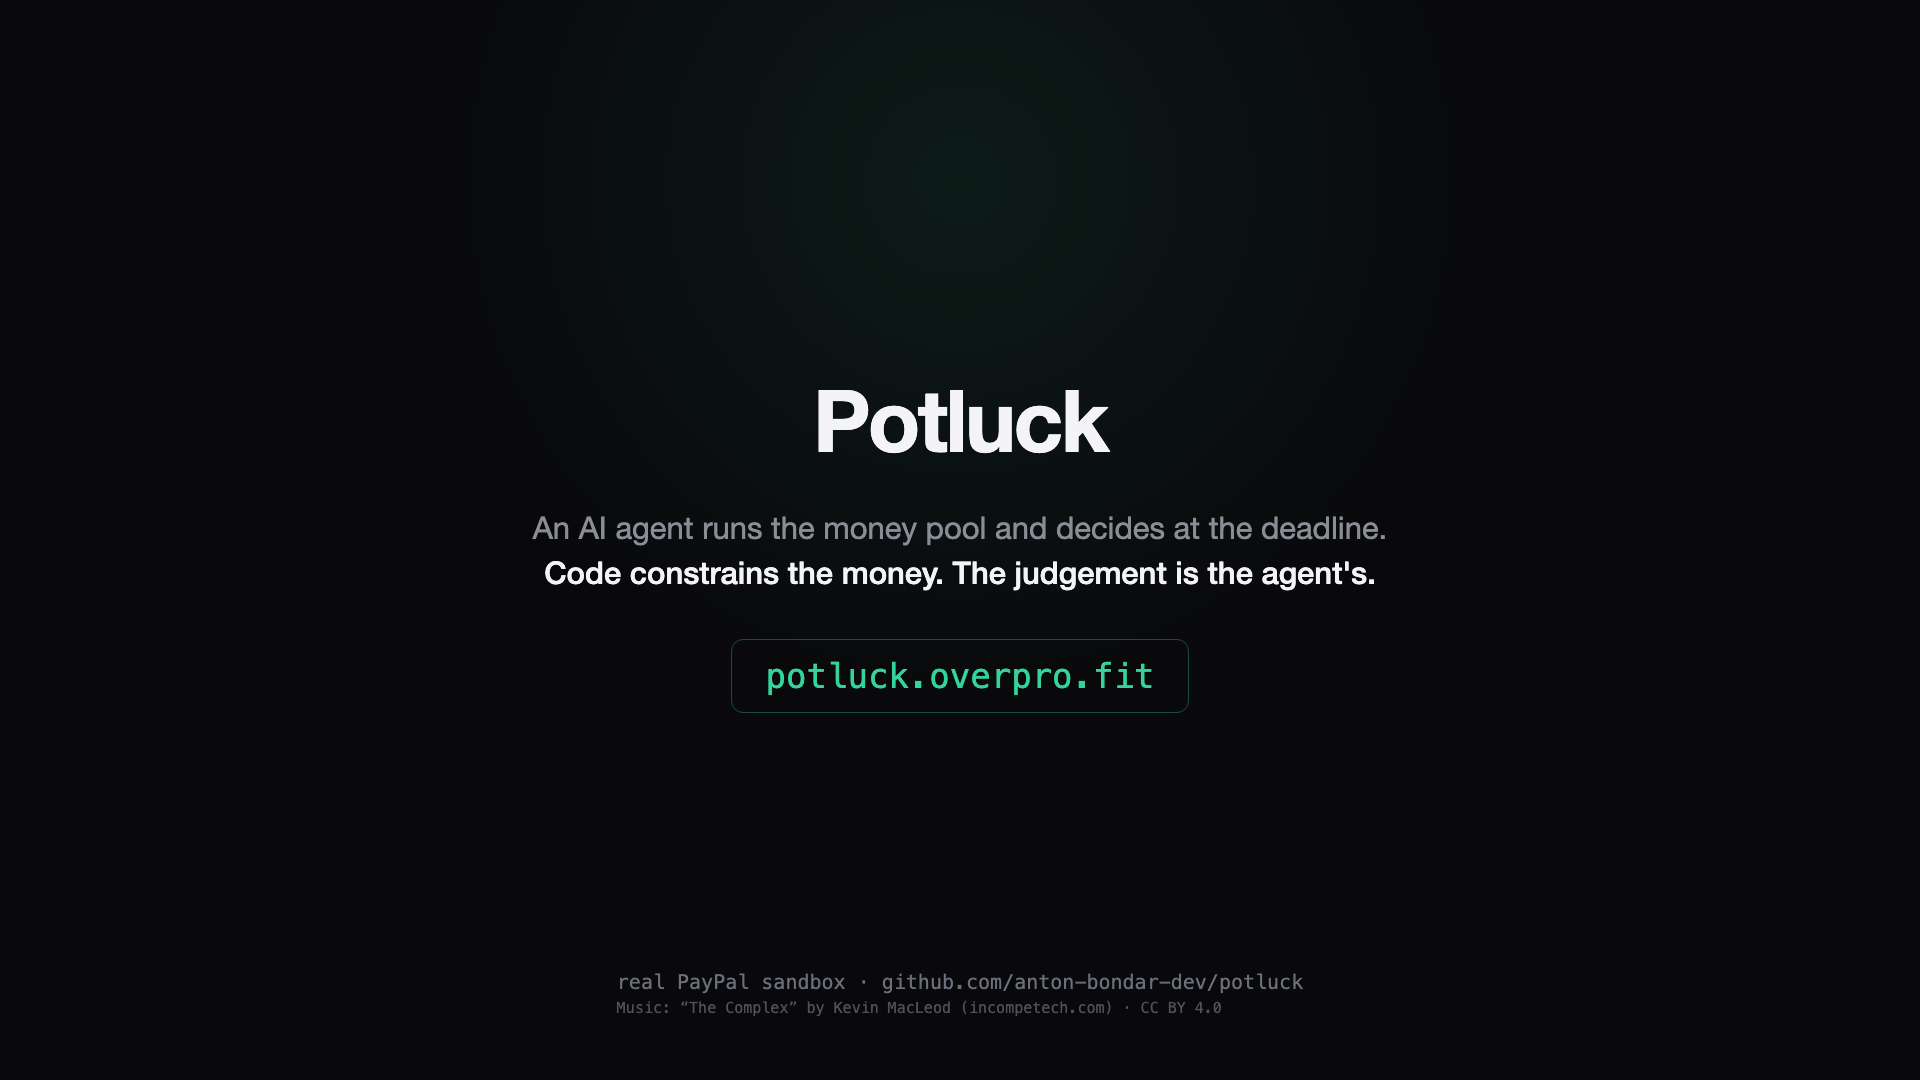
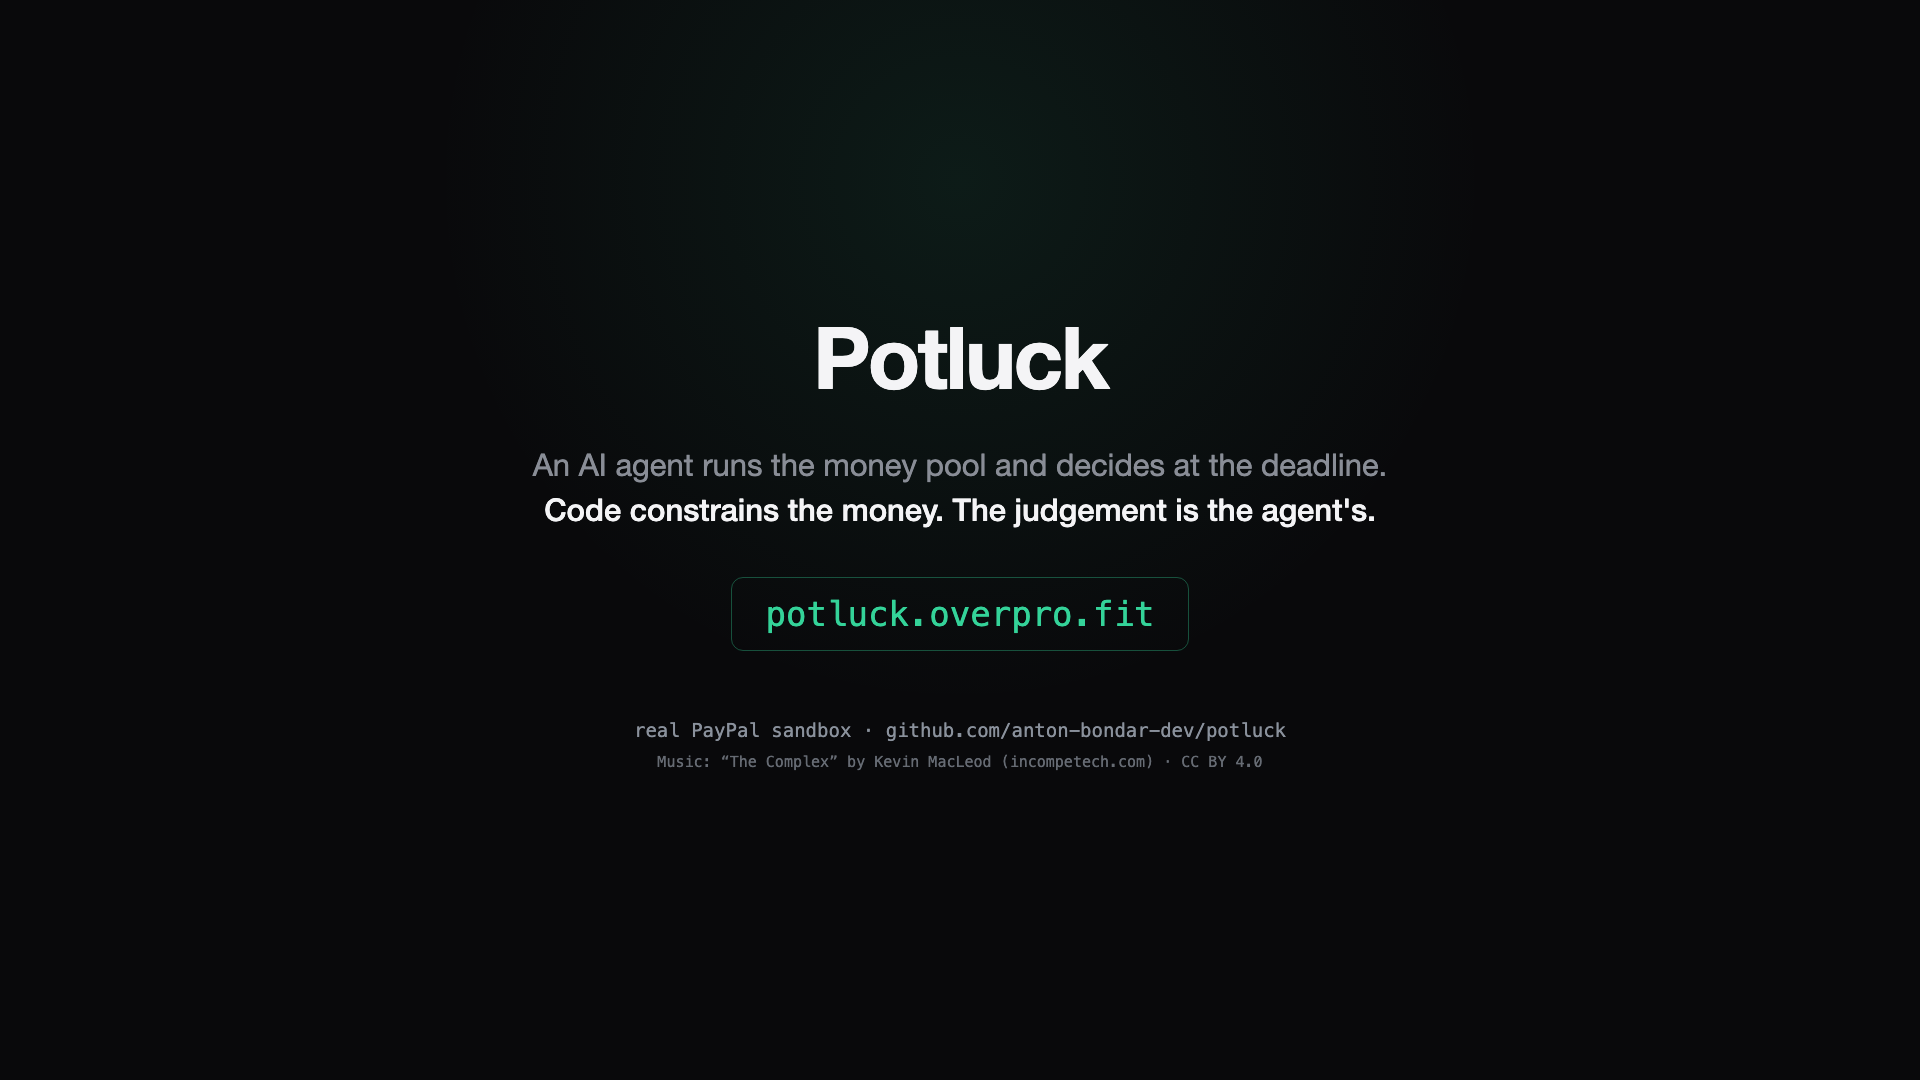
The film: a voice-over, a music bed, and four bugs in the pipeline
1:50, cut from a fresh take, uploaded to youtu.be/_sZ3V30QbaQ. Eric on
ElevenLabs reading the captions verbatim, so a judge watching muted and a
judge with sound on get the same film. Kevin MacLeod's 'The Complex' under
CC BY 4.0, credited on the end card and in the description because the licence
requires it, ducked under the voice by sidechain so it breathes in the gaps.

Four things the pipeline got wrong, each caught by looking at the output:
  - the caption overlap guard had been lost in an earlier edit, so three
    captions were briefly on screen at once; it is back, and now runs AFTER
    the voice step so it also catches a clip that overruns its slot
  - the audio filtergraph consumed the voice output twice, which ffmpeg
    refuses — asplit
  - -shortest let the AUDIO decide the length, silently cutting six seconds
    off the end and most of the end card with it; the video is the master now
  - the music credit sat under the caption scrim and was unreadable, which for
    a CC BY track is a licence problem, not a cosmetic one

Also: the thumbnails said 396 tests. They say 433.

diff --git a/frontend/src/PoolScreen.tsx b/frontend/src/PoolScreen.tsx
@@ -155,12 +155,17 @@ export default function PoolScreen({ poolId, onNew }: { poolId: string; onNew: (
         </div>
       )}
 
+      {/* Source order is the desktop reading order — trace, ledger, gauges. A phone
+          stacks it, which buried the hero number and the countdown below a trace log
+          taller than the screen. On narrow viewports the order is inverted to what
+          someone actually needs first: how much is in, how long is left, who has paid,
+          and only then the reasoning. */}
       <div className="mt-4 grid gap-4 lg:grid-cols-[360px_minmax(0,1fr)_300px]">
-        <div className="flex min-h-[520px] flex-col lg:h-[calc(100vh-230px)] lg:min-h-0">
+        <div className="order-3 flex max-h-[60vh] min-h-[340px] flex-col lg:order-1 lg:h-[calc(100vh-230px)] lg:max-h-none lg:min-h-0">
           <Trace items={st.trace} />
         </div>
 
-        <div className="space-y-4">
+        <div className="order-2 space-y-4 lg:order-2">
           <Ledger pool={pool} onPay={pay} busy={busy} />
           <Wire calls={st.wire} />
           <div className="rounded-card border border-border bg-surface-1 p-3">
@@ -215,7 +220,7 @@ export default function PoolScreen({ poolId, onNew }: { poolId: string; onNew: (
           </div>
         </div>
 
-        <div className="space-y-3">
+        <div className="order-1 space-y-3 lg:order-3">
           <Gauges pool={pool} />
           <Authority />
         </div>

diff --git a/frontend/src/components/Ledger.tsx b/frontend/src/components/Ledger.tsx
@@ -173,7 +173,11 @@ export default function Ledger({
           v{pool.ledger_version} · {pool.paid_count}/{pool.n} paid
         </span>
       </div>
-      <table className="w-full border-collapse text-left">
+      {/* The table has six columns and a floor of about 620px. On a 390px phone an
+          overflow-hidden wrapper simply cut it off; scrolling it sideways keeps every
+          column readable at full size instead of shrinking all of them past legibility. */}
+      <div className="overflow-x-auto">
+      <table className="w-full min-w-[620px] border-collapse text-left">
         <thead>
           <tr className="text-[10px] font-semibold tracking-[0.1em] text-text-faint uppercase">
             <th className="px-3 py-2 font-semibold">Who</th>
@@ -190,6 +194,7 @@ export default function Ledger({
           ))}
         </tbody>
       </table>
+      </div>
       <div className="border-t border-border px-3 py-2 text-[11px] text-text-faint">
         Amounts come from the roster the agent set at plan time. It cannot re-price an
         invoice, mark anyone as paid, or edit this table.

diff --git a/planning/video/endcard.html b/planning/video/endcard.html
@@ -10,7 +10,10 @@ body{width:1920px;height:1080px;background:#09090b;color:#f4f4f6;
 .s b{color:#f4f4f6;font-weight:500}
 .u{font-family:ui-monospace,'Geist Mono Variable',monospace;font-size:34px;color:#34d399;
   border:1px solid rgba(52,211,153,.35);border-radius:12px;padding:16px 34px;margin-top:10px;position:relative}
-.f{position:absolute;bottom:62px;font-family:ui-monospace,monospace;font-size:20px;color:#6b6f79}
+/* In the flow, not pinned to the bottom: the caption scrim darkens the lowest 230px of
+   every frame, and the music credit is a licence condition — it has to be readable. */
+.f{margin-top:30px;text-align:center;font-family:ui-monospace,monospace;font-size:19px;
+   line-height:1.6;color:#8a919c}
 </style></head><body>
 <div class="glow"></div>
 <div class="n">Potluck</div>

diff --git a/frontend/src/index.css b/frontend/src/index.css
@@ -34,8 +34,11 @@
 
   --color-text-hi: #f4f4f6;
   --color-text: #c6c8ce;
-  --color-text-dim: #898d96;
-  --color-text-faint: #6b6f79;
+  --color-text-dim: #9aa0aa;
+  /* Was #6b6f79, which fails WCAG AA on every surface here at 10-11px — and it is the
+     colour carrying the authority table and the "nothing parses your condition" line,
+     i.e. the project's central claim. 4.6:1 against the page background. */
+  --color-text-faint: #868d98;
 
   --color-accent: #7c6cf0;
   --color-accent-hi: #a394ff;

diff --git a/planning/video/voice.py b/planning/video/voice.py
@@ -1,0 +1,121 @@
+"""Generate the voice-over with ElevenLabs, one clip per caption.
+
+The lines come from cues.json, so the spoken words and the burned-in captions can never
+drift apart — there is one source of truth for both, and re-cutting the film re-cuts the
+script with it.
+
+The key is read from the environment or backend/.env and is never written anywhere. It
+is a credential for an account that bills, so it does not belong in this repository.
+
+    ELEVEN_API_KEY=... ./planning/video/voice.py --out ~/Desktop/potluck-voice
+    ELEVEN_API_KEY=... ./planning/video/voice.py --only 10,16   # regenerate two lines
+"""
+from __future__ import annotations
+
+import argparse
+import json
+import os
+import sys
+from pathlib import Path
+
+import httpx
+
+HERE = Path(__file__).resolve().parent
+API = "https://api.elevenlabs.io/v1"
+
+
+def load_key() -> str:
+    key = os.environ.get("ELEVEN_API_KEY") or os.environ.get("ELEVENLABS_API_KEY")
+    if key:
+        return key.strip()
+    env = HERE.parent.parent / "backend" / ".env"
+    if env.exists():
+        for line in env.read_text().splitlines():
+            if line.startswith(("ELEVEN_API_KEY=", "ELEVENLABS_API_KEY=")):
+                return line.split("=", 1)[1].strip()
+    raise SystemExit(
+        "No ElevenLabs key. Put it in backend/.env as ELEVEN_API_KEY=... (that file is\n"
+        "gitignored) or pass it as an environment variable. Get it from\n"
+        "elevenlabs.io -> your avatar -> API Keys.")
+
+
+def lines_from_cues() -> list[str]:
+    """The captions, spoken. Leading '!' marks a lead-in caption, it is not read aloud."""
+    cues = json.loads((HERE / "cues.json").read_text())
+    out = []
+    for c in cues:
+        t = c["text"].lstrip("!").replace("\\N", " ")
+        out.append(t.replace("“", "").replace("”", "").strip())
+    return out
+
+
+def find_voice(client: httpx.Client, key: str, name: str) -> str:
+    r = client.get(f"{API}/voices", headers={"xi-api-key": key}, timeout=30)
+    r.raise_for_status()
+    voices = r.json().get("voices", [])
+    # Names in the UI carry a descriptor — "Eric - Smooth, Trustworthy" — so match on
+    # the part before the dash, and fall back to an exact match for a custom voice whose
+    # own name contains one.
+    want = name.strip().lower()
+    for v in voices:
+        full = v.get("name", "").strip().lower()
+        if full == want or full.split(" - ")[0].strip() == want:
+            return v["voice_id"]
+    names = ", ".join(sorted(v.get("name", "?") for v in voices))
+    raise SystemExit(f"No voice called {name!r} on this account. Available: {names}")
+
+
+def main() -> int:
+    ap = argparse.ArgumentParser(description="Voice the Potluck film with ElevenLabs.")
+    ap.add_argument("--voice", default="Eric", help="voice name, as it appears in the UI")
+    ap.add_argument("--out", default=str(Path.home() / "Desktop" / "potluck-voice"))
+    ap.add_argument("--model", default="eleven_multilingual_v2")
+    ap.add_argument("--stability", type=float, default=0.5)
+    ap.add_argument("--similarity", type=float, default=0.75)
+    ap.add_argument("--only", default="", help="comma list of 1-based line numbers")
+    ap.add_argument("--dry-run", action="store_true", help="print the lines and stop")
+    args = ap.parse_args()
+
+    lines = lines_from_cues()
+    wanted = ({int(x) for x in args.only.split(",") if x.strip()}
+              if args.only else set(range(1, len(lines) + 1)))
+    out = Path(args.out).expanduser()
+    out.mkdir(parents=True, exist_ok=True)
+
+    print(f"{len(lines)} lines; generating {len(wanted)} into {out}\n")
+    if args.dry_run:
+        for i, t in enumerate(lines, 1):
+            print(f"  line-{i:02d}  {t}")
+        return 0
+
+    key = load_key()
+    with httpx.Client(timeout=180) as c:
+        vid = find_voice(c, key, args.voice)
+        print(f"voice {args.voice} -> {vid}\n")
+        total = 0
+        for i, text in enumerate(lines, 1):
+            if i not in wanted:
+                continue
+            r = c.post(
+                f"{API}/text-to-speech/{vid}",
+                headers={"xi-api-key": key, "accept": "audio/mpeg",
+                         "content-type": "application/json"},
+                json={"text": text, "model_id": args.model,
+                      "voice_settings": {"stability": args.stability,
+                                         "similarity_boost": args.similarity}},
+            )
+            if r.status_code != 200:
+                print(f"  line-{i:02d}  FAILED {r.status_code}: {r.text[:220]}")
+                if r.status_code in (401, 402):
+                    return 1               # bad key or out of quota: stop, do not hammer
+                continue
+            path = out / f"line-{i:02d}.mp3"
+            path.write_bytes(r.content)
+            total += len(text)
+            print(f"  line-{i:02d}  {len(r.content) // 1024:>4} KB  {text[:58]}")
+    print(f"\n{total} characters spent. Next: assemble.py --voice {out}")
+    return 0
+
+
+if __name__ == "__main__":
+    sys.exit(main())

diff --git a/planning/video/assemble.py b/planning/video/assemble.py
@@ -321,6 +321,26 @@ def main() -> int:
                 print(f"  ! line {i + 1} runs {over:.1f}s into line {i + 2} — shorten the "
                       f"script or move the cue: \"{cues[i][2][:52]}\"")
 
+    # NO TWO CAPTIONS ON SCREEN AT ONCE. plan_pool, send_invoices and the first sleep
+    # all land inside four seconds, so holds written by hand stack three deep and none of
+    # them can be read. This runs AFTER the voice block on purpose, so a clip that
+    # overruns its slot is trimmed too — and says so, because the real fix for that is a
+    # shorter line, not a clipped caption.
+    MIN_READ = 1.3
+    trimmed: list[tuple[float, float, str]] = []
+    for i, (a, b, text) in enumerate(cues):
+        nxt = cues[i + 1][0] if i + 1 < len(cues) else None
+        end = min(b, nxt - 0.18) if nxt is not None else b
+        if b - end > 0.25:
+            print(f"  ! caption {i + 1} truncated by {b - end:.1f}s to make room for the "
+                  f"next one: \"{text.replace(chr(92) + 'N', ' ')[:46]}\"")
+        if end - a < MIN_READ:
+            print(f"  ! caption {i + 1} dropped, no room to read it: "
+                  f"\"{text.replace(chr(92) + 'N', ' ')[:46]}\"")
+            continue
+        trimmed.append((a, end, text))
+    cues = trimmed
+
     ass_path = work / "caps.ass"
     ass_path.write_text(build_ass(cues, w, h))
     print(f"captions: {len(cues)} cues -> {ass_path}")
@@ -334,6 +354,10 @@ def main() -> int:
          "-frames:v", "1", scrim])
 
     out = Path(args.out)
+    # The video is the master. -shortest would let the audio decide, and the audio ends
+    # with the last spoken line — which silently cut six seconds off the end, taking most
+    # of the end card with it.
+    vid_len = float(probe(final_src, "duration") or 0)
     vf = (f"[0:v][1:v]overlay=0:{h - args.scrim}[bg];"
           f"[bg]ass={ass_path}:fontsdir=/System/Library/Fonts[v]")
     cmd = [FFMPEG, "-y", "-loglevel", "error", "-i", final_src, "-i", scrim]
@@ -353,23 +377,29 @@ def main() -> int:
         tags = "".join(f"[v{i}]" for i in range(n_in - len(voice_plan), n_in))
         audio_filter = (";".join(voice_parts)
                         + f";{tags}amix=inputs={len(voice_plan)}:normalize=0,"
-                          "loudnorm=I=-17:TP=-1.5:LRA=11[vox]")
+                          "loudnorm=I=-17:TP=-1.5:LRA=11[voxmix]")
         if args.music:
             # Duck the bed under the voice rather than setting it quiet throughout: the
             # music can breathe between lines and still never fight the narration.
-            audio_filter += (f";[{music_idx}:a][vox]sidechaincompress="
+            # asplit because the voice is needed TWICE — once to key the compressor and
+            # once in the mix — and an ffmpeg filter output may only be consumed once.
+            audio_filter += (";[voxmix]asplit=2[voxkey][voxout]"
+                             f";[{music_idx}:a][voxkey]sidechaincompress="
                              "threshold=0.03:ratio=9:attack=12:release=420[duck]"
-                             ";[duck][vox]amix=inputs=2:normalize=0:duration=first[aout]")
+                             ";[duck][voxout]amix=inputs=2:normalize=0:duration=longest,"
+                             "apad[aout]")
             amap = "[aout]"
         else:
-            amap = "[vox]"
+            audio_filter += ";[voxmix]apad[aout]"
+            amap = "[aout]"
     elif args.music:
         amap = f"{music_idx}:a"
 
     cmd += ["-filter_complex", vf + (";" + audio_filter if audio_filter else ""), "-map", "[v]"]
     if amap:
-        cmd += ["-map", amap, "-c:a", "aac", "-b:a", "176k", "-shortest"]
-    cmd += ["-c:v", "libx264", "-crf", "18", "-preset", "slow", "-pix_fmt", "yuv420p",
+        cmd += ["-map", amap, "-c:a", "aac", "-b:a", "176k"]
+    cmd += ["-t", f"{vid_len:.3f}",
+            "-c:v", "libx264", "-crf", "18", "-preset", "slow", "-pix_fmt", "yuv420p",
             "-movflags", "+faststart", out]
     run(cmd)
 
